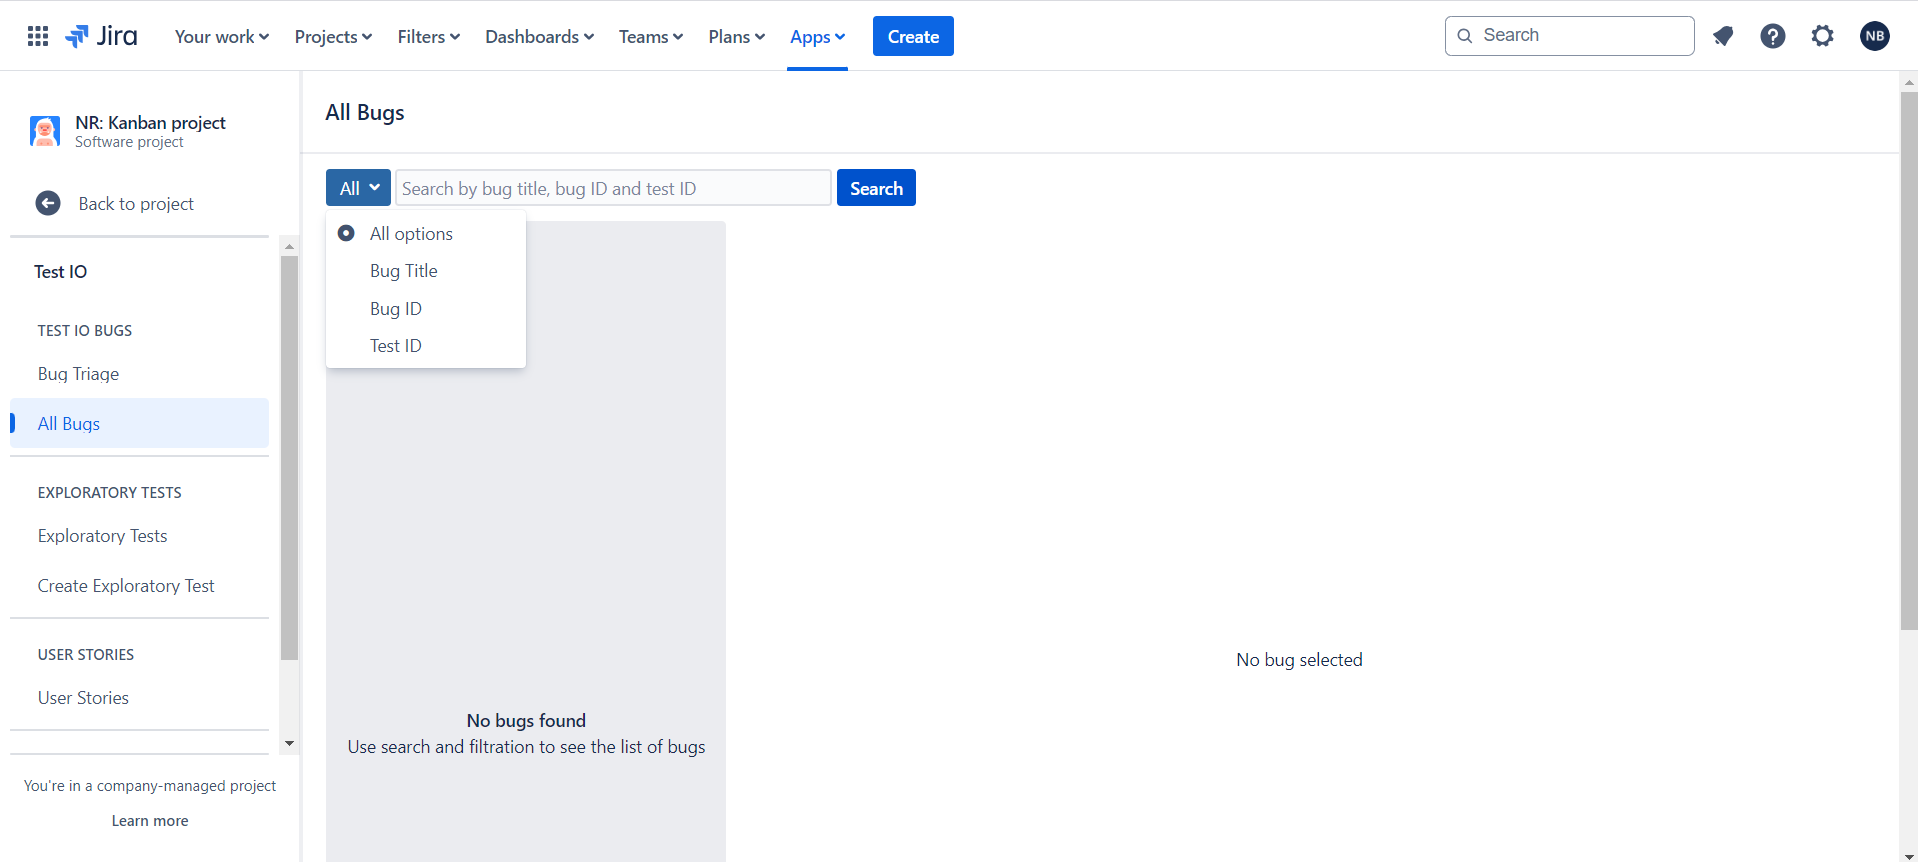
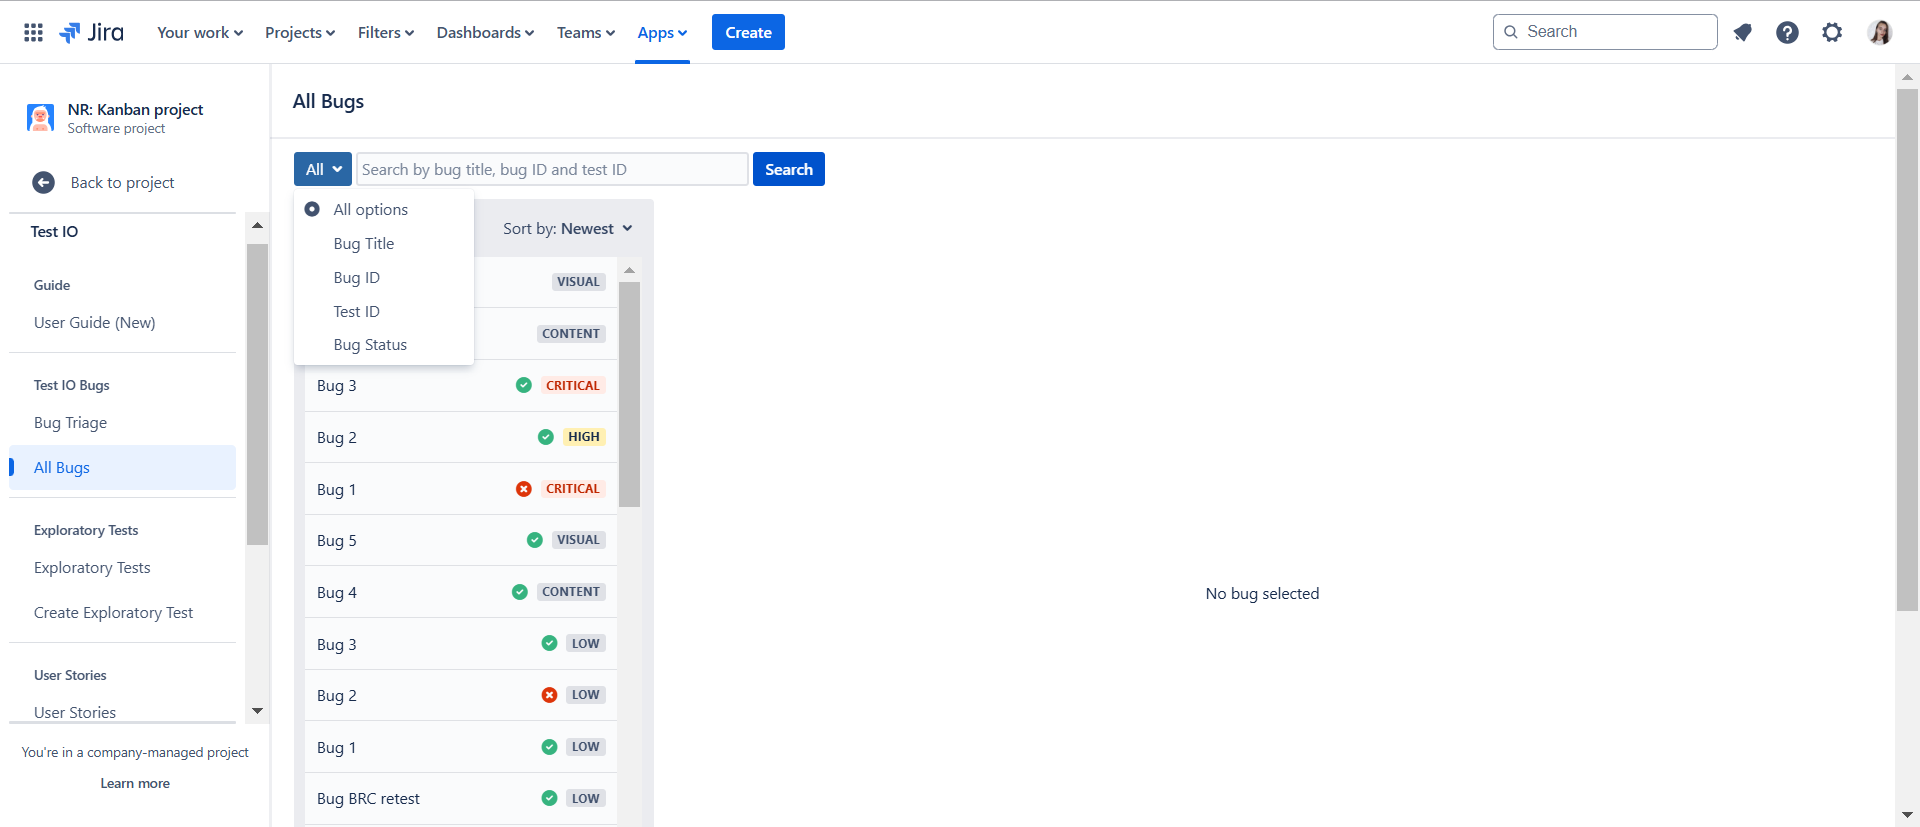
Changes on All bugs page

diff --git a/src/pages/docs/jira_cloud/all_bugs_page.md b/src/pages/docs/jira_cloud/all_bugs_page.md
@@ -14,3 +14,7 @@ First, **apply a search** to view results based on your specified criteria. On t
 
 The advanced search functionality streamlines bug management and tracking, offering quick access to relevant information and enhancing efficiency.
 {% screenshot src="/assets/jira_cloud/all_bugs.png" caption="All Bugs page in Jira Cloud" /%}
+
+You can **sort bugs** on the "All Bugs" page by **Newest**, **Oldest**, **A to Z**, **Z to A**.
+
+{% screenshot src="/assets/jira_cloud/all_bugs_sort.png" caption="Sort bugs on All Bugs page" /%}
